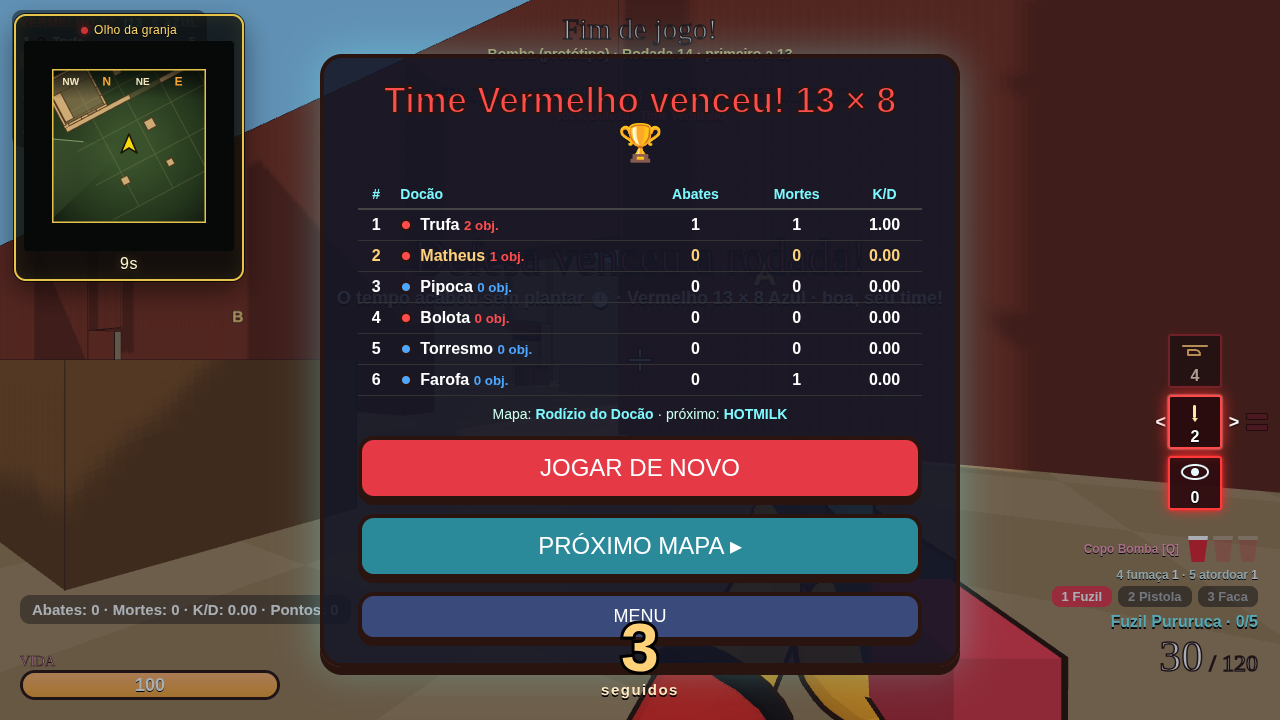
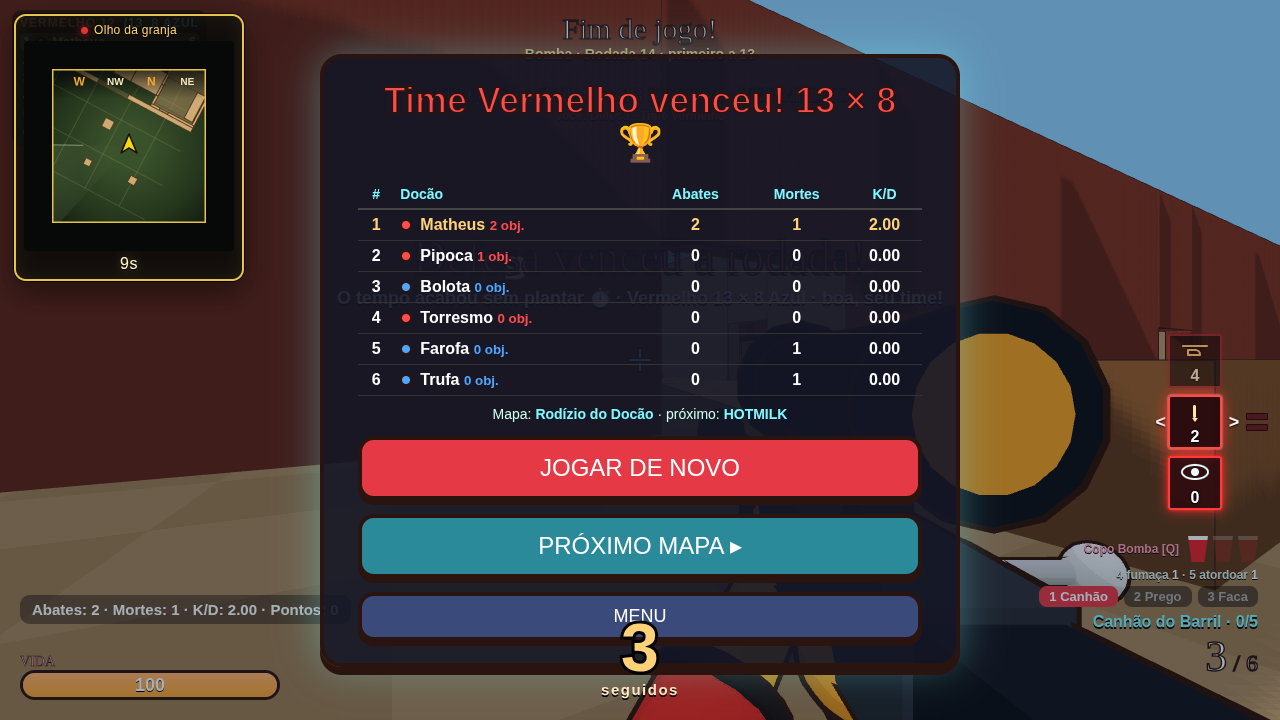
Modo Bomba + chat no canto: chat/voz do time na Bomba, HUD da bomba sem sobrepor o chat, painel de troca acima da barra de vida, tira aviso de morte velho; screenshots

diff --git a/main.js b/main.js
@@ -1342,7 +1342,7 @@ function updateHud(dt) {
   $('vignette').style.opacity = Math.max(hurtLevel, p.alive && p.hp < 35 ? 0.35 + Math.sin(gameTime * 6) * 0.1 : 0);
   const cm = $('centermsg');
   if (!p.alive) cm.textContent = `Você foi ${p.killW === KNIFE ? 'moggado' : 'pururucado'} por ${p.lastAttacker && p.lastAttacker !== p ? p.lastAttacker.name : '???'}${p.killW === KNIFE && p.killBack ? ' (pelas costas!)' : ''} · ${respawnReady(p) ? (rsSent ? 'renascendo...' : 'clique em RENASCER (ou Espaço)') : Number.isFinite(p.respawnAt) ? `renasce em ${Math.max(0, p.respawnAt - gameTime).toFixed(1)}s` : 'aguarde...'}`;
-  else if (msgTimer > 0) msgTimer -= dt; // mensagem (ex.: "Mapa: …") tem prioridade
+  else if (msgTimer > 0) { msgTimer -= dt; if (cm.textContent.startsWith('Você foi ')) cm.textContent = ''; } // mensagem (ex.: "Mapa: …") tem prioridade; tira o "Você foi pururucado" que sobrou de antes de nascer
   else if (gameTime < p.invulnUntil) cm.textContent = 'PROTEGIDO';
   else cm.textContent = '';
   if (!$('tabboard').classList.contains('hidden')) $('tabboard').innerHTML = boardHtml();
@@ -2389,7 +2389,7 @@ function setTeamWinner(w) {
   el.textContent = w < 0 ? `Empate! ${teamScore[0]} × ${teamScore[1]}` : `Time ${TEAM_NAMES[w]} venceu! ${teamScore[0]} × ${teamScore[1]}${player && player.team === w ? ' 🏆' : ''}`;
 }
 function refreshModeHud() {
-  $('domhud').classList.toggle('hidden', mode !== 'dom'); $('bombhud').classList.toggle('hidden', mode !== 'bomb');
+  $('domhud').classList.toggle('hidden', mode !== 'dom'); $('bombhud').classList.toggle('hidden', mode !== 'bomb'); document.body.classList.toggle('bombmode', mode === 'bomb');
   if (teamMode() && player) { $('myTeam').textContent = `Você: Time ${TEAM_NAMES[player.team] || '?'}`; $('myTeam').style.color = TEAM_COLORS[player.team] || '#fff'; }
   $('winner').style.color = '';
 }
@@ -3275,7 +3275,7 @@ function updateBombGfx(dt) {
   else if (S.phase === 'end') tt = S.over ? 'Fim de jogo!' : `Próxima rodada em ${Math.ceil(Math.max(0, S.phaseEnd - gameTime))}`;
   else tt = 'Fim de jogo!';
   $('timer').textContent = tt; $('timer').style.color = S.phase === 'planted' ? '#ff4d4d' : S.phase === 'prep' ? '#ffd27a' : '';
-  $('leader').textContent = `Bomba (protótipo) · Rodada ${S.round} · primeiro a ${BOMB.WIN}${S.round <= BOMB.HALF ? ` · troca após a ${BOMB.HALF}ª` : ''}`;
+  $('leader').textContent = `Bomba · Rodada ${S.round} · primeiro a ${BOMB.WIN}${S.round <= BOMB.HALF ? ` · troca após a ${BOMB.HALF}ª` : ''}`;
   let ct = '';
   if (S.planted) ct = `Botijão plantado no ${SITE_NAMES[S.site]}! ${mySide === 1 ? `Segure ${BOMB.KEY_LABEL} perto dele pra desarmar` : 'Proteja até explodir!'}`;
   else if (S.dropped) ct = mySide === 0 ? 'O botijão caiu! Passe por cima pra pegar' : 'O botijão caiu no chão!';

diff --git a/style.css b/style.css
@@ -355,3 +355,13 @@ body.bombpick #bPrompt{display:none}
 #trainInfo{display:inline-block;margin-top:4px;background:rgba(20,10,8,.62);color:#fff;padding:4px 12px;border-radius:8px;font-size:14px;white-space:nowrap;pointer-events:none}
 #trainInfo b{color:#fff;font-size:16px}#trainInfo b.hd{color:#ffd23a}
 .trainnote{margin:6px 0;padding:6px 10px;border-radius:8px;background:rgba(242,201,76,.18);font-size:13px;line-height:1.35}
+
+/* Bomba + chat fixo no canto (v1.8.2): chat mais estreito e baixo, placar/tempo da bomba centrado no espaço livre entre o placar da esquerda e o chat */
+body.bombmode #socialHud{width:min(300px,32vw)}
+body.bombmode #socialHud .chatlog{max-height:20vh;min-height:80px}
+body.bombmode:has(#socialHud:not(.hidden)) #bombhud,body.bombmode:has(#socialHud:not(.hidden)) #topbar{left:calc((210px + 100vw - 24px - min(300px,32vw)) / 2);max-width:calc(100vw - 234px - min(300px,32vw) - 10px);width:max-content}
+/* painel de troca aberto: esconde o que ficaria por baixo dele (o próprio painel mostra a arma escolhida) */
+body.bombpick #score,body.bombpick #nades,body.bombpick #tac,body.bombpick #slots,body.bombpick #wname{visibility:hidden}
+#bLoad{width:min(660px,66vw);bottom:62px} /* acima da barra de VIDA e da munição */
+#bLoad .bltiles{flex:1;min-width:0}
+#bLoad .bltile{flex:1 1 0;min-width:0;max-width:62px}

diff --git a/PATCH_NOTES.md b/PATCH_NOTES.md
@@ -33,7 +33,7 @@ Ainda **não está no site**. Modo estilo Valorant, com o Docão:
 - **Killstreaks e rodadas:** a sequência e os streaks guardados passam pra rodada seguinte (trocar de rodada não é morrer). O que está no ar acaba na virada: o Gavião vai embora, e o míssil e o Fim da chapa ainda na contagem voltam pro F. Na preparação o F não funciona.
 - **Instruções claras na tela:** aviso grande com a tecla (*"Segure E para plantar o botijão"*, *"Segure E para desarmar"*, *"Leve o botijão até o A ou o B"* com a distância), barra com os segundos, faixa de começo de rodada explicando o objetivo do seu lado e um bloco **Como jogar** no menu.
 - **Troca de arma toda rodada:** na preparação aparece um painel compacto embaixo, com as miniaturas das armas (primária, secundária e corpo a corpo) e uma barra até a rodada começar. **1–9** ou a rodinha trocam a primária na hora, **N** a secundária, **M** faca/sabre, **G** solta o mouse se quiser clicar e **B** fecha/reabre. Dá pra olhar em volta com ele aberto, e ele some sozinho no VALENDO. Online, o servidor só aceita a troca na preparação.
-- Funciona offline e online, com chat, voz e killstreaks online da v1.8.
+- Funciona offline e online, com chat, voz e killstreaks online da v1.8. **Chat no canto da v1.8.2 junto:** T fala com todos, Y/U com o seu time (na Bomba o time é o seu lado), e na Bomba o painel do chat fica mais estreito e o placar/tempo da rodada se ajeita no espaço livre, sem ficar um por cima do outro. As teclas da Bomba (E, e B/N/M/G/1–9 só na preparação) não brigam com T/Y/U/J/K/F/V/Q/R.
 
 ---
 
